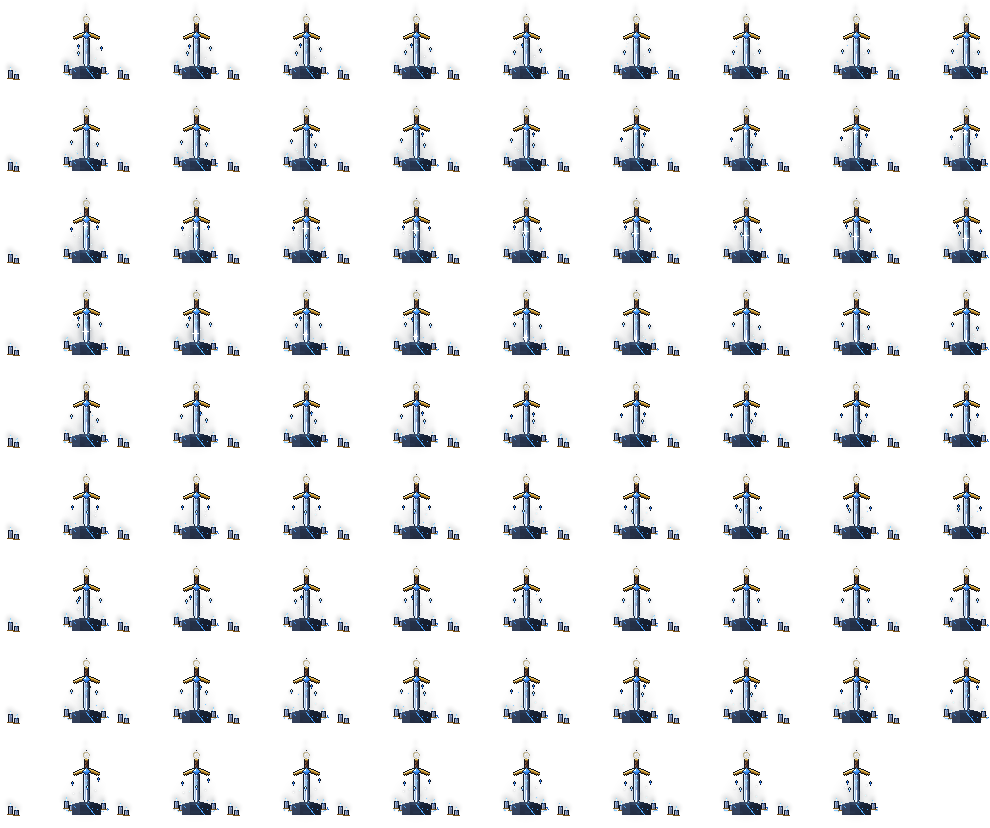
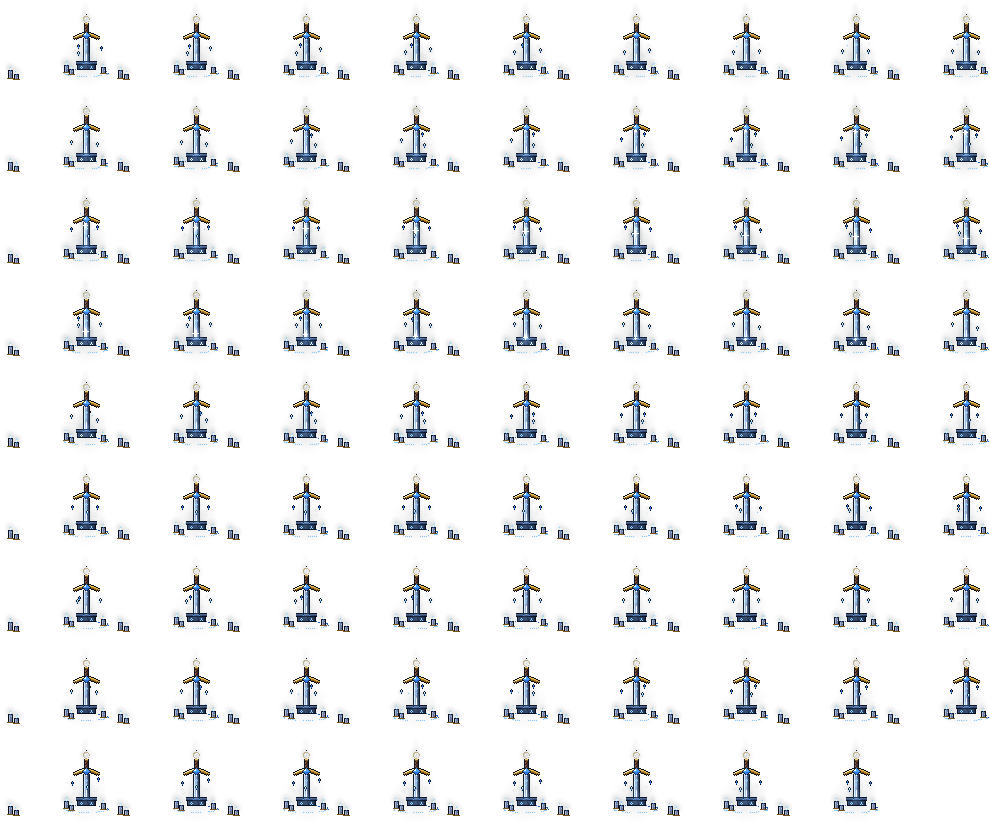
style(cosmetics): 전설의 검 — 울퉁불퉁한 바위 대신 성소와 같은 돌로 깎은 받침
- 검이 꽂힌 바위만 따로 노는 색·결의 자연석이라 다듬은 돌 벽·기둥·계단 사이에서 튀었다
- 배경과 같은 돌 색으로 깎은 받침: 몰딩 덮개, 왼쪽이 밝은 면, 칼날이 박힌 틈에서 새는 푸른 빛,
  앞면에 새긴 룬 두 개가 빛기둥과 함께 숨 쉬고 가는 금이 하나

diff --git a/scripts/pixelfx/cards/card-sword.js b/scripts/pixelfx/cards/card-sword.js
@@ -19,7 +19,8 @@ const INK = hex("#070a14");
 const STEEL = ["#2a3346", "#4b5875", "#8a9ab8", "#c9d6ee", "#f2f7ff"].map(hex);
 const GOLD = ["#3d260a", "#7a5216", "#b8862a", "#e8bd52", "#fff0b0"].map(hex);
 const LEATHER = ["#1e0f0b", "#3e2216", "#5f3622", "#84513a"].map(hex);
-const ROCK = ["#141a28", "#222a3c", "#323d55", "#46536f"].map(hex);
+// the pedestal is cut from the same stone as the sanctum (bg-sword STONE), so it belongs to the room
+const PED = ["#121a2a", "#1a2438", "#243049", "#33415e", "#4a5a7c"].map(hex);
 const WAX = ["#3a4258", "#6a7594", "#a3adc8"].map(hex);
 
 /** a small candle: a wax stick h tall with a drip, a blue flame that flickers on its own clock, a little light */
@@ -144,15 +145,28 @@ export function draw(p, t, o) {
   hilt(p, C, breath);
   shard(true);
 
-  // the stone it is buried in: a lumpy rock, lit from the left, a few cracks glowing blue
-  p.shade(X - 14, STONE - 4, X + 14, STONE + 10, (x, y, out) => {
-    const dx = (x + 0.5 - X) / 14, top = STONE - 3 + Math.round(3 * dx * dx + rand(Math.floor(x / 3), 11));
-    if (y < top) return;
-    if (y === top) return dx < 0 ? ROCK[3] : ROCK[2];
-    const crack = rand(x, y, 5) < 0.012 || (Math.abs(x - X) === 2 && y < STONE + 4) || (Math.abs(x - X - (y - STONE) * 0.8) < 0.6 && y > STONE);
-    if (crack) { out.l = C[5]; out.k = 0.4 * breath; return C[4]; }
-    return dx < -0.4 ? ROCK[2] : dx < 0.3 ? ROCK[1] : ROCK[0];
-  });
+  // the pedestal it is driven into: a cut block on the altar's top step, a moulded cap, a slot where the blade
+  // goes in leaking blue light, two runes carved on its face that breathe with the pillar, a hairline crack
+  const P0 = STONE - 6, P1 = STONE; // cap top .. bottom (the step's top is at STONE + 1)
+  p.rect(X - 10, P0 - 1, 21, 1, INK);
+  p.rect(X - 10, P0, 21, 2, PED[3]);
+  p.rect(X - 10, P0, 21, 1, PED[4]);
+  p.rect(X - 10, P0 + 2, 21, 1, INK);
+  p.rect(X - 8, P0 + 3, 17, P1 - P0 - 2, PED[2]);
+  p.rect(X - 8, P0 + 3, 1, P1 - P0 - 2, PED[3]);
+  p.rect(X + 8, P0 + 3, 1, P1 - P0 - 2, PED[1]);
+  p.rect(X - 9, P0 + 3, 1, P1 - P0 - 2, INK);
+  p.rect(X + 9, P0 + 3, 1, P1 - P0 - 2, INK);
+  p.rect(X - 9, P1 + 1, 19, 1, INK);
+  // the slot: dark either side of the blade, blue light welling out of it
+  p.px(X - 3, P0, INK); p.px(X + 3, P0, INK); p.px(X - 3, P0 + 1, C[4]); p.px(X + 3, P0 + 1, C[4]);
+  p.glow(X, P0, 7, C[5], 0.45 * breath);
+  // runes on the face, lit by the same breath
+  const rune = breath > 0.8 ? C[6] : C[5];
+  for (const [dx, dy] of [[-5, 0], [-6, 1], [-4, 1], [-5, 2], [5, 0], [5, 1], [4, 2], [6, 2]]) p.px(X + dx, P0 + 4 + dy, rune);
+  for (const dx of [-5, 5]) p.glow(X + dx, P0 + 5, 4, C[5], 0.25 * breath);
+  // a hairline crack running down from the slot
+  for (const [dx, dy] of [[1, 3], [1, 4], [2, 5], [2, 6]]) p.px(X + dx, P0 + dy, PED[0]);
 
   // a glint sliding down the blade once a loop
   const g = (ph - 0.15) / 0.3;

diff --git a/apps/web/src/components/cosmetics/effects.tsx b/apps/web/src/components/cosmetics/effects.tsx
@@ -345,7 +345,7 @@ function BatsFx() {
 /* ───────── 전설의 검 ───────── */
 
 /**
- * 돌 성소의 제단, 바위에 꽂힌 큰 검 — 날개 코등이·보석 자루끝, 뒤로 푸른 빛기둥이 솟고
+ * 돌 성소의 제단, 깎은 돌 받침에 꽂힌 큰 검 — 날개 코등이·보석 자루끝, 뒤로 푸른 빛기둥이 솟고
  * 바닥 룬 고리가 돌며 수정 조각이 검을 맴돈다. 파란 촛불, 아치 창에서 드는 빛줄기, 기둥·깃발.
  */
 function SwordFx() {

diff --git a/apps/web/src/components/cosmetics/catalog.ts b/apps/web/src/components/cosmetics/catalog.ts
@@ -153,7 +153,7 @@ const COSMETIC_DEFS: CosmeticItem[] = [
     slot: "CARD_FRAME",
     name: "전설의 검",
     description:
-      "빛이 드는 돌 성소의 제단, 바위에 꽂힌 검에서 푸른 빛기둥이 솟고 수정 조각이 맴돈다",
+      "빛이 드는 돌 성소의 제단, 돌 받침에 꽂힌 검에서 푸른 빛기둥이 솟고 수정 조각이 맴돈다",
     price: 900,
     rarity: "PREMIUM",
     className: "bg-slate-400/80",
